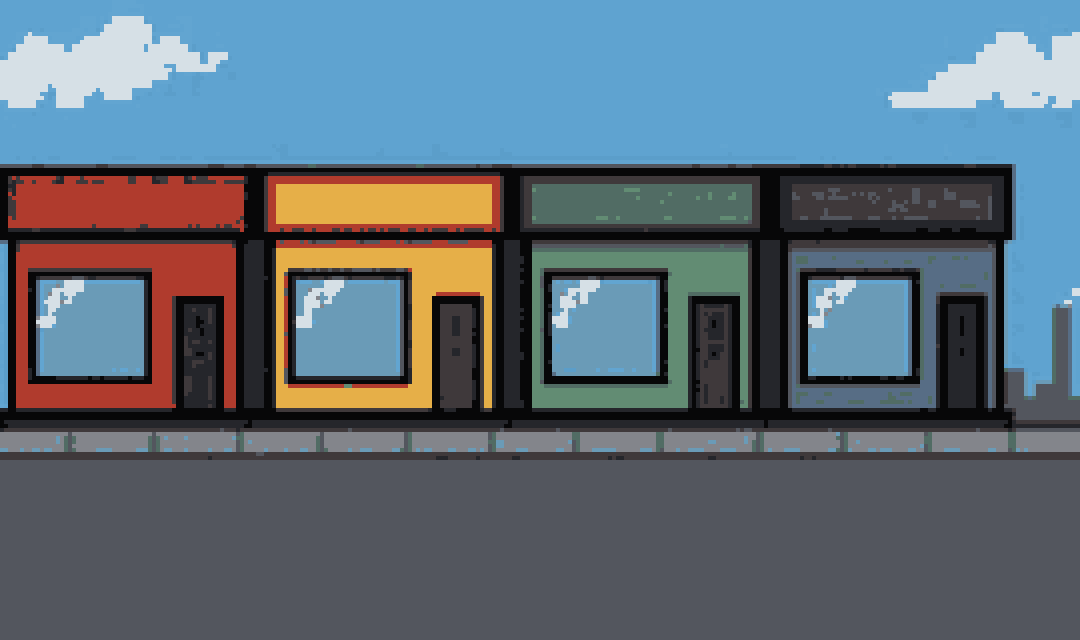
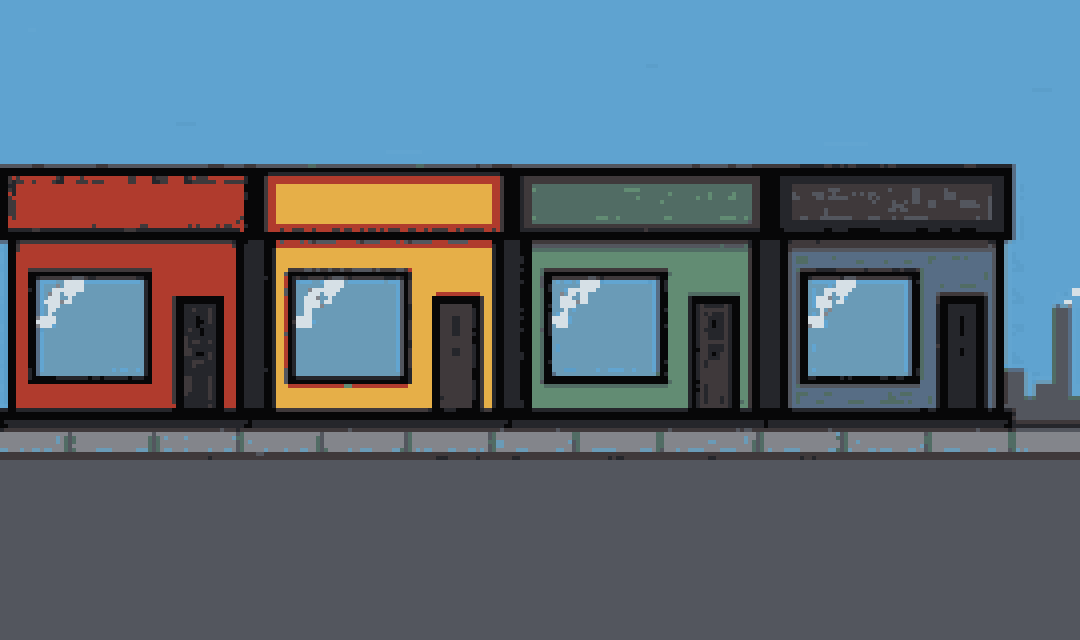
Polish factory layers result preview and street clouds

Changed region(s): [[0.0, 0.0, 0.2139, 0.1875], [0.825, 0.0312, 1.0, 0.1875]]

diff --git a/styles.css b/styles.css
@@ -78,12 +78,18 @@ kbd { min-width:42px; padding:7px; border:4px solid #111; background:#fff; box-s
 .result-heading span { background:var(--ok); }
 .result-shell .kiosk-screen { padding-top:14px; padding-bottom:10px; }
 .result-shell .screen-heading { margin-bottom:6px; padding-bottom:6px; }
-.result-receipt { width:min(480px,94%); margin:4px auto 7px; padding:10px 20px 13px; border:5px solid var(--ink); background:var(--paper); box-shadow:7px 8px 0 var(--ink); }
+.result-layout { display:grid; grid-template-columns:250px minmax(0,1fr); grid-template-rows:minmax(0,1fr) auto; align-items:center; gap:9px 20px; height:calc(100% - 56px); }
+.result-share-card { position:relative; width:250px; height:250px; margin:0; padding:8px; border:5px solid var(--ink); background:#29282d; box-shadow:7px 8px 0 var(--ink); }
+.result-share-card::after { content:""; pointer-events:none; position:absolute; inset:8px; border:3px solid rgba(255,255,255,.7); }
+.result-share-card-label { position:absolute; z-index:2; left:8px; right:8px; bottom:8px; padding:5px 7px; color:#fff; background:rgba(17,17,17,.9); font:bold 10px Consolas; letter-spacing:.8px; text-align:center; }
+.result-share-card img { display:block; width:100%; height:100%; object-fit:contain; image-rendering:pixelated; background:#111; }
+.result-summary { min-width:0; }
+.result-receipt { width:100%; margin:0; padding:10px 20px 13px; border:5px solid var(--ink); background:var(--paper); box-shadow:7px 8px 0 var(--ink); }
 .result-receipt>div { display:flex; align-items:baseline; justify-content:space-between; border-bottom:3px dashed #777; padding:4px 0; }
 .result-receipt span { font:bold 17px Consolas; }.result-receipt strong { font:900 34px "Arial Black",Arial; }
 .result-receipt p { margin:8px 0 0; text-align:center; font:bold 11px Consolas; }
-.result-shell .result-actions { margin-top:4px; }
-.result-shell .result-actions .kiosk-button { min-height:46px; }
+.result-shell .result-actions { grid-column:1/-1; display:grid; grid-template-columns:repeat(3,minmax(0,1fr)); margin-top:0; }
+.result-shell .result-actions .kiosk-button { min-width:0; min-height:46px; }
 .hud-ui { pointer-events:none; }
 .game-hud { position:absolute; inset:0; color:#111; }
 .objective-ticket { position:absolute; left:max(18px,env(safe-area-inset-left)); top:max(16px,env(safe-area-inset-top)); min-width:280px; max-width:430px; padding:9px 16px 12px 18px; border:5px solid #111; background:var(--paper); box-shadow:6px 7px 0 rgba(0,0,0,.55); clip-path:polygon(0 0,100% 0,100% 86%,96% 100%,92% 86%,88% 100%,84% 86%,80% 100%,76% 86%,72% 100%,68% 86%,64% 100%,60% 86%,56% 100%,52% 86%,48% 100%,44% 86%,40% 100%,36% 86%,32% 100%,28% 86%,24% 100%,20% 86%,16% 100%,12% 86%,8% 100%,4% 86%,0 100%); }
@@ -123,6 +129,11 @@ kbd { min-width:42px; padding:7px; border:4px solid #111; background:#fff; box-s
   .control-diagram.wide { min-height:48px; }
   .guide-actions,.result-actions { margin-top:8px; }
   .guide-actions .kiosk-button,.result-actions .kiosk-button { min-width:135px; }
+  .result-layout { grid-template-columns:170px minmax(0,1fr); gap:7px 14px; height:calc(100% - 46px); }
+  .result-share-card { width:170px; height:170px; padding:6px; border-width:4px; box-shadow:5px 6px 0 var(--ink); }
+  .result-share-card::after { inset:6px; border-width:2px; }
+  .result-share-card-label { left:6px; right:6px; bottom:6px; padding:3px; font-size:8px; }
+  .result-shell .result-actions .kiosk-button { min-width:0; min-height:40px; }
   .result-receipt { padding:9px 18px 15px; }
   .result-receipt strong { font-size:29px; }
   .objective-ticket { min-width:230px; max-width:330px; padding:6px 12px 10px; }

diff --git a/src/utils/visuals.js b/src/utils/visuals.js
@@ -42,6 +42,21 @@ export function drawStreet(scene) {
   const colors=[0xd75b4a,0xe3b84d,0x7594a6,0xb66f8c]; for(let i=0;i<5;i++){const x=i*220;g.fillStyle(colors[i%4]).fillRect(x,160,215,410);g.fillStyle(0x222222).fillRect(x+25,220,165,105);g.fillStyle(0x89b5c4).fillRect(x+38,233,139,79);g.fillStyle(0xf0d85c).fillRect(x+20,175,175,30);}
   g.fillStyle(0x555555).fillRect(0,550,1080,90); g.fillStyle(0xeeeeee); for(let x=30;x<1080;x+=130)g.fillRect(x,590,75,12); return g;
 }
+export function addMovingClouds(scene) {
+  const clouds=[
+    scene.add.image(125,78,'street-cloud').setDepth(-9).setName('street-cloud-near'),
+    scene.add.image(690,118,'street-cloud').setDepth(-9).setName('street-cloud-far').setScale(.72).setFlipX(true)
+  ];
+  const speeds=[18,11];
+  const move=(_time,delta)=>clouds.forEach((cloud,index)=>{
+    if(!cloud.active)return;
+    cloud.x+=speeds[index]*Math.min(delta,50)/1000;
+    if(cloud.x-cloud.displayWidth/2>1080)cloud.x=-cloud.displayWidth/2;
+  });
+  scene.events.on('update',move);
+  scene.events.once('shutdown',()=>scene.events.off('update',move));
+  return clouds;
+}
 export function drawFactory(scene) {
   scene.cameras.main.setBackgroundColor('#7b8287');
   if(scene.textures.exists('bg-factory'))return scene.add.image(540,320,'bg-factory').setDepth(-10);

diff --git a/src/services/ShareCardService.js b/src/services/ShareCardService.js
@@ -49,13 +49,14 @@ export class ShareCardService {
     const canvas=document.createElement('canvas'); canvas.width=1080; canvas.height=1080; const c=canvas.getContext('2d'); c.imageSmoothingEnabled=false;
     c.fillStyle='#f7e05e'; c.fillRect(0,0,1080,1080); c.fillStyle='#e64c3c'; c.fillRect(0,0,1080,150); c.fillStyle='#111'; c.fillRect(0,150,1080,18);
     c.fillStyle='#222'; c.font='bold 62px Arial, sans-serif'; c.textAlign='center'; c.fillText('I HATE F**KING KIOSK',540,100);
-    this.drawBrokenFactory(c);this.drawKiosks(c);this.drawCharacter(c);
-    for(let i=0;i<18;i++){c.fillStyle=i%2?'#ddd':'#333'; c.fillRect(500+Math.random()*470,690+Math.random()*80,18+Math.random()*30,12+Math.random()*20);}
+    this.drawBrokenFactory(c);
+    for(let i=0;i<18;i++){c.fillStyle=i%2?'#ddd':'#333';c.fillRect(500+(i*73)%460,690+(i*29)%76,18+(i*7)%30,12+(i*11)%20);}
+    this.drawKiosks(c);this.drawCharacter(c);
     c.fillStyle='#111';this.drawFittedText(c,`${this.i18n.t('time')}  ${this.formatTime(this.session.elapsedMs)}`,850);this.drawFittedText(c,`${this.i18n.t('destroyed')}  ${this.session.destroyedTotal}`,930);
     c.font='bold 42px monospace'; c.fillText('#IHFK',540,1010); return canvas;
   }
-  async share() {
-    const canvas=this.createCanvas(); const text=this.i18n.t('shareText',{count:this.session.destroyedTotal,time:this.formatTime(this.session.elapsedMs)}); const url=location.href;
+  async share(canvas = this.createCanvas()) {
+    const text=this.i18n.t('shareText',{count:this.session.destroyedTotal,time:this.formatTime(this.session.elapsedMs)}); const url=location.href;
     const blob=await new Promise(resolve=>canvas.toBlob(resolve,'image/png')); const file=new File([blob],'ihfk-result.png',{type:'image/png'});
     if (!FORCE_SHARE_FALLBACK && navigator.share && navigator.canShare?.({files:[file]})) {
       try { await navigator.share({title:'I HATE F**KING KIOSK',text,url,files:[file]}); return 'shared'; }

diff --git a/src/scenes/ResultScene.js b/src/scenes/ResultScene.js
@@ -5,11 +5,11 @@ export class ResultScene extends Phaser.Scene {
   constructor(){super('Result');}
   create(){
     document.body.dataset.scene='Result';document.body.dataset.elapsedMs=String(Math.round(this.session.elapsedMs));document.body.dataset.destroyed=String(this.session.destroyedTotal);delete document.body.dataset.shareOutcome;
-    document.body.classList.remove('gameplay');drawFactory(this);this.add.image(740,288,'factory-v2-4').setDepth(-9);const share=new ShareCardService(this.session,this.i18n,this.textures);
+    document.body.classList.remove('gameplay');drawFactory(this);this.add.image(740,288,'factory-v2-4').setDepth(-9);const share=new ShareCardService(this.session,this.i18n,this.textures);const shareCanvas=share.createCanvas();const previewUrl=shareCanvas.toDataURL('image/png');
     const retry=()=>{this.ui.clear();this.session.resetRun();this.scene.start('Intro');};
     const endless=()=>{this.ui.clear();this.session.mode='endless';this.session.endlessDestroyed=0;this.audio.startMusic();this.scene.start('Factory',{mode:'endless'});};
-    const shareResult=async()=>{try{const outcome=await share.share();document.body.dataset.shareOutcome=outcome;return outcome;}catch(error){document.body.dataset.shareOutcome='error';console.error(error);return 'error';}};
-    this.ui.showResult({time:share.formatTime(this.session.elapsedMs),destroyed:this.session.destroyedTotal,onRetry:retry,onEndless:endless,onShare:shareResult});
+    const shareResult=async()=>{try{const outcome=await share.share(shareCanvas);document.body.dataset.shareOutcome=outcome;return outcome;}catch(error){document.body.dataset.shareOutcome='error';console.error(error);return 'error';}};
+    this.ui.showResult({time:share.formatTime(this.session.elapsedMs),destroyed:this.session.destroyedTotal,previewUrl,onRetry:retry,onEndless:endless,onShare:shareResult});
     this.input.keyboard.on('keydown-R',retry);this.input.keyboard.on('keydown-K',endless);this.input.keyboard.on('keydown-S',shareResult);
   }
 }

diff --git a/src/ui/GameUi.js b/src/ui/GameUi.js
@@ -106,11 +106,11 @@ export class GameUi {
     bubble.textContent = text; bubble.classList.add('pop');
   }
 
-  showResult({ time, destroyed, onRetry, onEndless, onShare }) {
+  showResult({ time, destroyed, previewUrl, onRetry, onEndless, onShare }) {
     const shell = this.kioskShell(`
       <div class="screen-heading result-heading"><span>OK</span><h1>${escapeHtml(this.i18n.t('complete'))}</h1></div>
-      <div class="result-receipt"><div><span>${escapeHtml(this.i18n.t('time'))}</span><strong>${escapeHtml(time)}</strong></div><div><span>${escapeHtml(this.i18n.t('destroyed'))}</span><strong>${destroyed}</strong></div><p>ERROR CODE: FACTORY-000<br>PRODUCTION TERMINATED</p></div>
-      <div class="result-actions"></div>`, { status: 'TRANSACTION COMPLETE', className: 'result-shell' });
+      <div class="result-layout"><figure class="result-share-card"><div class="result-share-card-label">SHARE CARD / 1080×1080</div><img alt="IHFK share card preview"></figure><div class="result-summary"><div class="result-receipt"><div><span>${escapeHtml(this.i18n.t('time'))}</span><strong>${escapeHtml(time)}</strong></div><div><span>${escapeHtml(this.i18n.t('destroyed'))}</span><strong>${destroyed}</strong></div><p>ERROR CODE: FACTORY-000<br>PRODUCTION TERMINATED</p></div></div><div class="result-actions"></div></div>`, { status: 'TRANSACTION COMPLETE', className: 'result-shell' });
+    const preview=shell.querySelector('.result-share-card img');preview.src=previewUrl;preview.dataset.width='1080';preview.dataset.height='1080';
     const actions = shell.querySelector('.result-actions');
     const share = this.button(this.i18n.t('share'), async () => {
       share.disabled = true; share.textContent = '...';

diff --git a/index.html b/index.html
@@ -5,7 +5,7 @@
     <meta name="viewport" content="width=device-width,initial-scale=1,viewport-fit=cover,user-scalable=no" />
     <meta name="theme-color" content="#111111" />
     <title>I HATE F**KING KIOSK</title>
-    <link rel="stylesheet" href="styles.css?v=12" />
+    <link rel="stylesheet" href="styles.css?v=13" />
   </head>
   <body>
     <main id="game-shell">
@@ -24,6 +24,6 @@
       </div>
     </main>
     <script src="https://cdn.jsdelivr.net/npm/phaser@4.1.0/dist/phaser.min.js"></script>
-    <script type="module" src="src/game.js?v=22"></script>
+    <script type="module" src="src/game.js?v=23"></script>
   </body>
 </html>

diff --git a/src/scenes/StreetScene.js b/src/scenes/StreetScene.js
@@ -1,10 +1,10 @@
 import { BasePlayScene } from './BasePlayScene.js';
-import { drawStreet, addGoSign } from '../utils/visuals.js';
+import { drawStreet, addGoSign, addMovingClouds } from '../utils/visuals.js';
 import { BALANCE } from '../config.js';
 
 export class StreetScene extends BasePlayScene {
   constructor(){super('Street');}
-  create(){document.body.dataset.scene='Street';document.body.dataset.exitState='hidden';drawStreet(this);this.session.streetDestroyed=0;this.createPlay('targetStreet');this.allowDrops=true;this.exitOpen=false;this.eventCount=0;this.goSign=addGoSign(this,930,300);this.spawnTimer=this.time.addEvent({delay:2000,loop:true,callback:()=>this.spawnEvent()});}
+  create(){document.body.dataset.scene='Street';document.body.dataset.exitState='hidden';drawStreet(this);this.clouds=addMovingClouds(this);this.session.streetDestroyed=0;this.createPlay('targetStreet');this.allowDrops=true;this.exitOpen=false;this.eventCount=0;this.goSign=addGoSign(this,930,300);this.spawnTimer=this.time.addEvent({delay:2000,loop:true,callback:()=>this.spawnEvent()});}
   spawnEvent(){if(this.exitOpen||this.kiosks.countActive(true)>=12)return;this.eventCount++;const count=this.eventCount%7===0?Phaser.Math.Between(3,5):1;for(let i=0;i<count;i++)this.time.delayedCall(i*120,()=>{if(this.kiosks.countActive(true)<12)this.spawnKiosk(Phaser.Math.Between(90,990),true,'street');});}
   onKioskDestroyed(kiosk){super.onKioskDestroyed(kiosk);if(this.session.streetDestroyed>=BALANCE.streetGoal&&!this.exitOpen){this.exitOpen=true;document.body.dataset.exitState='go';this.spawnTimer.remove();this.goSign.show();this.audio.sfx('pickup');}}
   getProgress(){return `${Math.min(BALANCE.streetGoal,this.session.streetDestroyed)} / ${BALANCE.streetGoal}`;}

diff --git a/src/scenes/BootScene.js b/src/scenes/BootScene.js
@@ -6,7 +6,7 @@ export class BootScene extends Phaser.Scene {
   constructor(){super('Boot');}
   preload(){
     const base='assets/character/';
-    this.load.image('bg-fastfood','assets/background/fastfood.png');this.load.image('bg-street','assets/background/street.png');this.load.image('bg-factory','assets/background/factory.png');
+    this.load.image('bg-fastfood','assets/background/fastfood.png');this.load.image('bg-street','assets/background/street.png');this.load.image('street-cloud','assets/background/layers/street-cloud.png');this.load.image('bg-factory','assets/background/factory.png');
     this.load.spritesheet('normal-idle',`${base}Normal Guy Idle/Normal_Guy_Idle_SpriteSheet.png`,{frameWidth:15,frameHeight:20});
     this.load.spritesheet('normal-transform',`${base}Normal Guy Transforms/Normal_Guy_Transforms_SpriteSheet.png`,{frameWidth:29,frameHeight:25});
     this.load.spritesheet('strong-idle',`${base}Strong Guy Idle/Strong_Guy_Idle_SpriteSheet.png`,{frameWidth:18,frameHeight:23});

diff --git a/src/scenes/FactoryScene.js b/src/scenes/FactoryScene.js
@@ -15,7 +15,7 @@ export class FactoryScene extends BasePlayScene {
   startAssemblyLoop(){
     const launch=()=>{
       if(!this.scene.isActive())return;
-      const product=this.add.image(-55,475,'kiosk-v2-0').setScale(.52).setDepth(4).setAngle(-4);
+      const product=this.add.image(-55,475,'kiosk-v2-0').setScale(.52).setDepth(2).setName('factory-product').setAngle(-4);this.lastAssemblyProduct=product;
       this.tweens.add({targets:product,x:485,duration:this.mode==='endless'?650:1050,ease:'Linear',onComplete:()=>{
         product.setTint(this.mode==='endless'?0x995555:0xffffff);
         this.tweens.add({targets:product,x:Phaser.Math.Between(420,580),y:-120,angle:Phaser.Math.Between(-220,220),duration:this.mode==='endless'?500:780,ease:'Quad.easeIn',onComplete:()=>product.destroy()});

diff --git a/scripts/build_street_cloud_layer.py b/scripts/build_street_cloud_layer.py
@@ -1,0 +1,63 @@
+"""Split the baked street clouds into a reusable hard-alpha pixel sprite."""
+
+from pathlib import Path
+
+from PIL import Image
+
+
+ROOT = Path(__file__).resolve().parents[1]
+BACKGROUND = ROOT / "assets/background/street.png"
+SOURCE = ROOT / "assets/background/source/street-with-clouds-v1.png"
+CLOUD = ROOT / "assets/background/layers/street-cloud.png"
+
+SKY = (95, 163, 208, 255)
+CLOUD_WHITE = (214, 224, 230, 255)
+
+
+def main() -> None:
+    SOURCE.parent.mkdir(parents=True, exist_ok=True)
+    CLOUD.parent.mkdir(parents=True, exist_ok=True)
+
+    if not SOURCE.exists():
+        Image.open(BACKGROUND).convert("RGBA").save(SOURCE)
+
+    source = Image.open(SOURCE).convert("RGBA")
+
+    # The original art is a 4x nearest-neighbour enlargement. Keep the moving
+    # layer on that same grid and retain only the solid cloud pixels.
+    cloud = Image.new("RGBA", (240, 112), (0, 0, 0, 0))
+    crop = source.crop((0, 8, 240, 120))
+    for y in range(crop.height):
+        for x in range(crop.width):
+            if crop.getpixel((x, y)) == CLOUD_WHITE:
+                cloud.putpixel((x, y), CLOUD_WHITE)
+    cloud.save(CLOUD)
+
+    clean = source.copy()
+    pixels = clean.load()
+    # Rebuild only the empty sky band, leaving the shop silhouettes untouched.
+    # Tiny 4px blue blocks preserve the deliberately cheap original texture.
+    for y in range(164):
+        for x in range(clean.width):
+            pixels[x, y] = SKY
+    texture_marks = [
+        (28, 28, 8, 4, (98, 165, 209, 255)),
+        (176, 122, 20, 4, (91, 158, 202, 255)),
+        (386, 150, 36, 4, (98, 165, 209, 255)),
+        (646, 64, 12, 4, (91, 158, 202, 255)),
+        (824, 142, 44, 4, (98, 165, 209, 255)),
+        (1032, 88, 20, 4, (91, 158, 202, 255)),
+    ]
+    for x, y, width, height, color in texture_marks:
+        for py in range(y, y + height):
+            for px in range(x, x + width):
+                pixels[px, py] = color
+    clean.save(BACKGROUND)
+
+    assert cloud.getextrema()[3] == (0, 255)
+    assert all(channel in (0, 255) for channel in cloud.getchannel("A").getdata())
+    print(f"wrote {BACKGROUND.relative_to(ROOT)} and {CLOUD.relative_to(ROOT)}")
+
+
+if __name__ == "__main__":
+    main()

diff --git a/scripts/check_sprite_assets.py b/scripts/check_sprite_assets.py
@@ -60,6 +60,12 @@ for background in Path("assets/background").glob("*.png"):
     colors = image.getcolors(maxcolors=1_000_000) or []
     if len(colors) > 16 or any(color[3] != 255 for _, color in colors): raise SystemExit(f"{background}: palette/alpha gate failed")
 
+cloud = rgba(Path("assets/background/layers/street-cloud.png"))
+if cloud.size != (240, 112): raise SystemExit(f"street cloud: wrong size {cloud.size}")
+cloud_colors = cloud.getcolors(maxcolors=1_000_000) or []
+if any(color[3] not in (0, 255) for _, color in cloud_colors): raise SystemExit("street cloud: partial alpha found")
+if len([color for _, color in cloud_colors if color[3]]) > 2: raise SystemExit("street cloud: palette exceeds 2 opaque colors")
+
 validate_frames(Path("assets/kiosk/frames-v2"), 5, 128)
 for weapon in ("bat", "chainsaw", "shotgun"): validate_frames(Path(f"assets/weapons/{weapon}/frames-v2"), 6, 64)
 validate_frames(Path("assets/factory/frames-v2"), 5, (680, 576))
@@ -93,6 +99,9 @@ runtime_captures = (
     "runtime-factory-raster-stage3-1080x640.png",
     "runtime-factory-raster-stage4-1080x640.png",
     "runtime-kiosk-menu-ui-1080x640.png",
+    "runtime-factory-product-behind-1080x640.png",
+    "runtime-result-share-preview-1080x640.png",
+    "runtime-street-moving-clouds-1080x640.png",
 )
 for filename in runtime_captures:
     path = Path("docs/evidence") / filename
@@ -124,6 +133,7 @@ if run[:8] != [True] * 8 or run[8]: raise SystemExit("Strong-run source populati
 if attack[:15] != [True] * 15 or attack[15]: raise SystemExit("Strong-attack source population changed")
 
 print("PASS 3 backgrounds are 1080x640, opaque, and at most 16 colors")
+print("PASS street cloud is a 240x112 hard-alpha pixel layer")
 print("PASS 28 generated runtime frames use hard alpha, safe bounds, and shared 16-color palettes")
 print("PASS 3 derived weapon pickups are 80x48 hard-alpha pixel sprites")
 print(f"PASS {len(runtime_captures)} runtime evidence captures are exactly 1080x640")

diff --git a/docs/evidence/2026-07-13-layer-result-cloud-followup.md b/docs/evidence/2026-07-13-layer-result-cloud-followup.md
@@ -1,0 +1,49 @@
+# 2026-07-13 Layer, Result Preview and Cloud Follow-up
+
+## Scope
+
+This follow-up fixes three presentation regressions without changing campaign balance: factory assembly products now pass behind the factory target, the completion kiosk displays the exact share-card canvas that will be shared, and the street sky uses independent continuously moving cloud sprites.
+
+## Factory render order
+
+- Room-only background: depth `-10`
+- Conveyor/launch product kiosk: depth `2`
+- Destructible factory target: depth `3`
+- Player and combat effects remain above the target.
+
+The browser regression test waits for a live assembly product and asserts `product.depth < factory.depth`. The capture shows the product partially occluded by the factory machinery rather than drawn over it.
+
+## Result share-card preview
+
+`ResultScene` creates one 1080×1080 canvas when the scene opens. The same canvas is converted to a PNG data URL for the in-kiosk preview and passed to `ShareCardService.share()` for Web Share or download. This prevents the preview and exported image from diverging. The result layout keeps the preview, localized receipt and all three actions within the 1080×640 kiosk screen.
+
+## Moving cloud layer
+
+- The baked clouds were removed from `assets/background/street.png`.
+- `assets/background/layers/street-cloud.png` is a 240×112 hard-alpha raster derived from the approved street art.
+- Two instances move at 18 px/s and 11 px/s and wrap only after leaving the right edge.
+- Background depth is `-10`; cloud depth is `-9`, so clouds remain behind gameplay entities.
+
+`scripts/build_street_cloud_layer.py` reproducibly rebuilds the clean sky and cloud layer from the preserved source composite.
+
+## Verification
+
+```text
+npm run check
+PASS 46 runtime assets exist
+PASS street cloud is a 240x112 hard-alpha pixel layer
+
+npm test
+PASS browser unit suite (34 passed, 0 failed)
+PASS factory product depth is below factory target depth
+PASS street cloud x positions increase during a 500ms sample
+PASS result preview is a 1080x1080 PNG and all controls remain inside the kiosk screen
+```
+
+- [Factory product behind target](runtime-factory-product-behind-1080x640.png)
+- [Result with share-card preview](runtime-result-share-preview-1080x640.png)
+- [Street with moving cloud layer](runtime-street-moving-clouds-1080x640.png)
+
+## Known limitation
+
+The native mobile share sheet and physical-device FPS/audio gates remain open under SPEC-08 and SPEC-10.